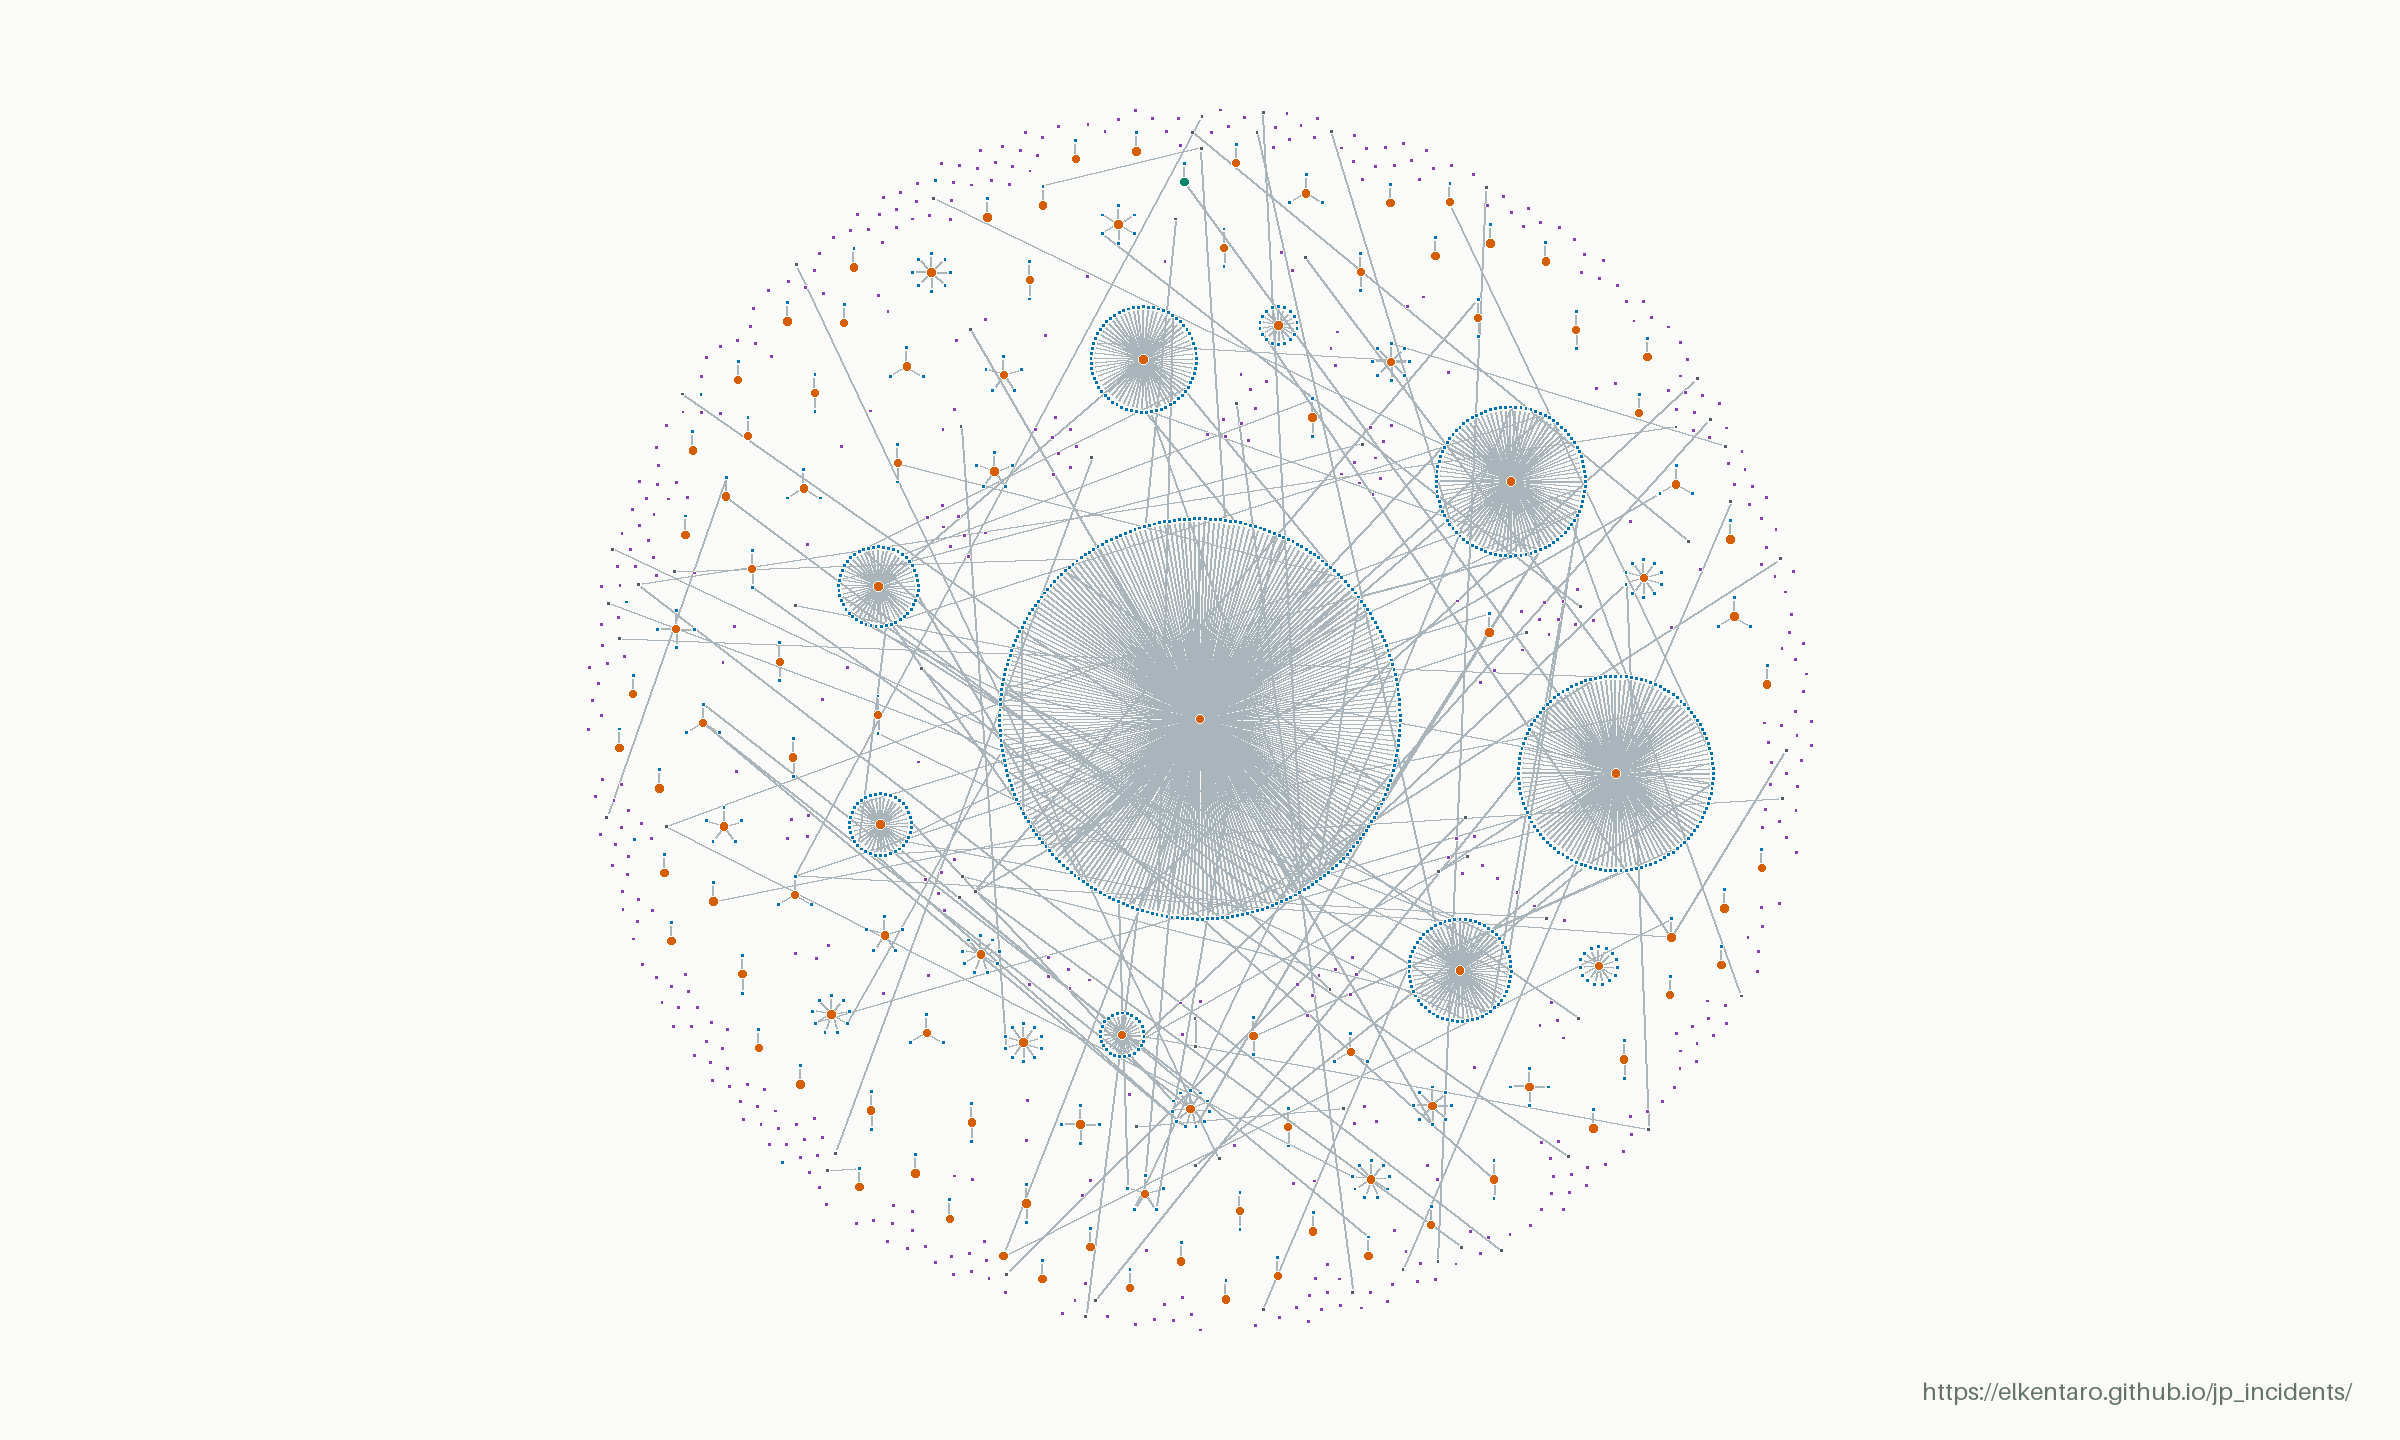
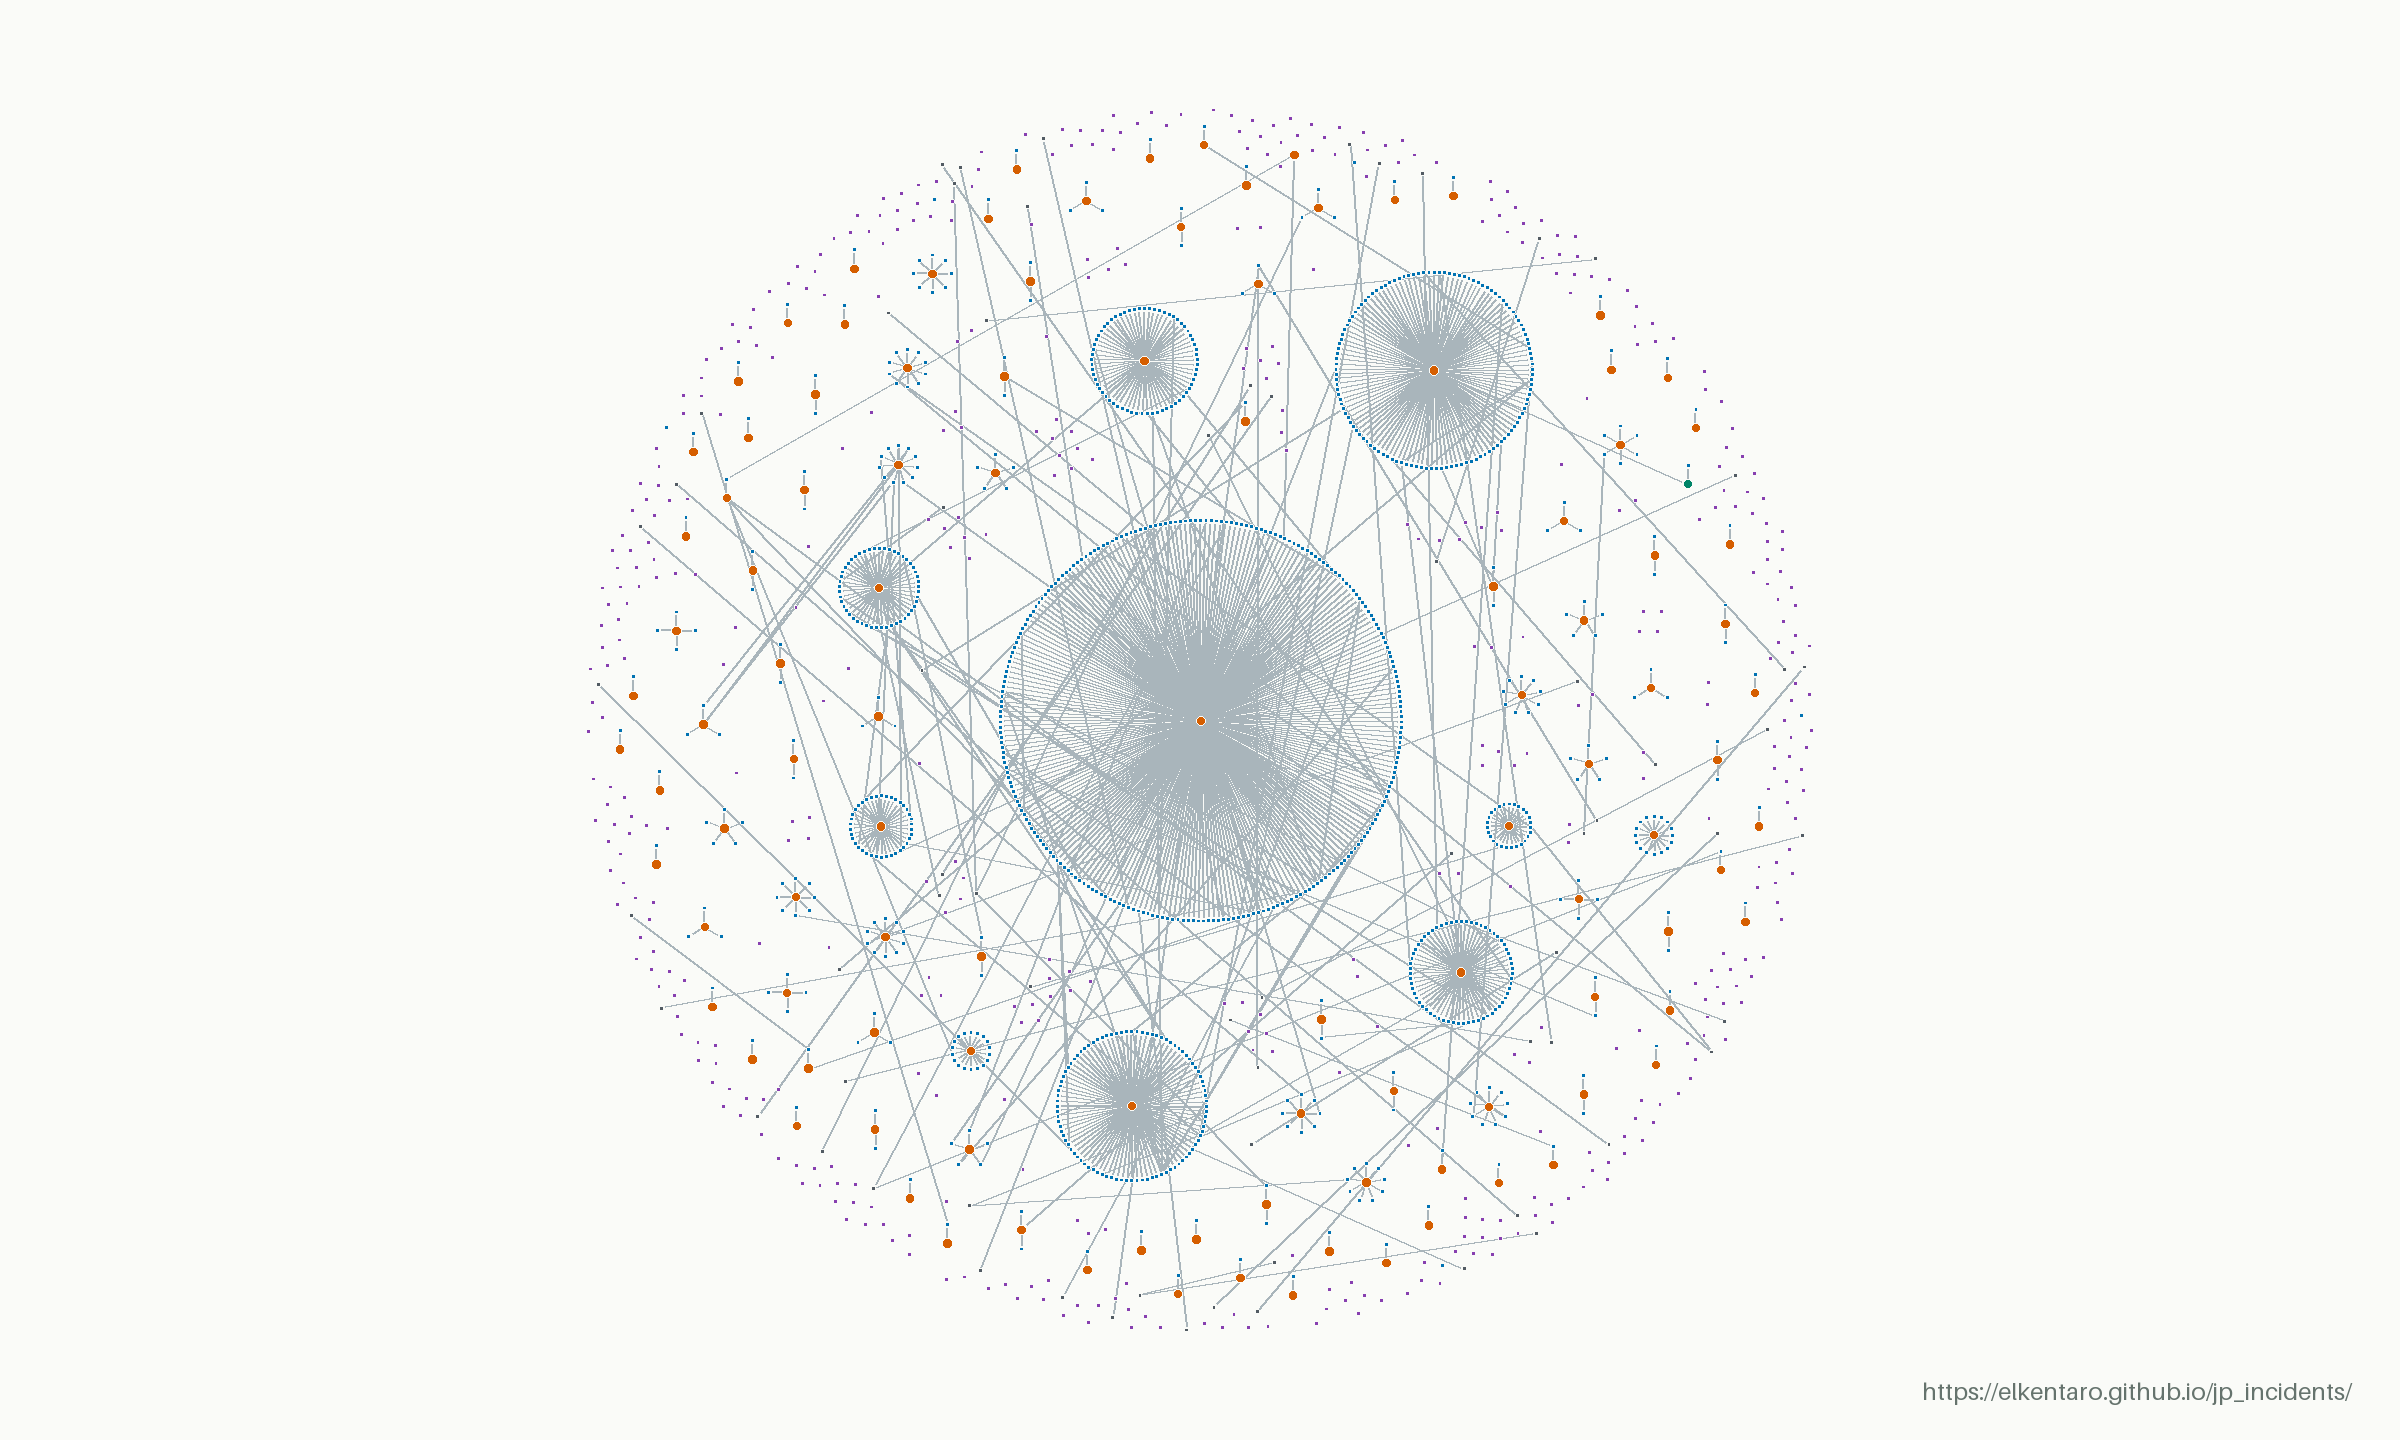
Update incident data (2026-11-26 06:18 UTC)

diff --git a/linkage.html b/linkage.html
@@ -32,17 +32,17 @@
     </section>
     <section class="direct-summary" aria-labelledby="direct-title">
       <dl class="direct-stats">
-        <div class="direct-total"><dt id="direct-title" data-copy="direct">Direct incidents</dt><dd id="direct-count">645</dd></div>
+        <div class="direct-total"><dt id="direct-title" data-copy="direct">Direct incidents</dt><dd id="direct-count">648</dd></div>
         <div><dt data-copy="directUpstream">Upstream incidents</dt><dd id="upstream-count">108</dd></div>
-        <div><dt data-copy="directStandalone">Standalone incidents</dt><dd id="standalone-count">537</dd></div>
+        <div><dt data-copy="directStandalone">Standalone incidents</dt><dd id="standalone-count">540</dd></div>
       </dl>
-      <p class="direct-excluded"><strong id="downstream-count">984</strong> <span data-copy="directExcluded">downstream records excluded, including incidents with both roles.</span></p>
+      <p class="direct-excluded"><strong id="downstream-count">986</strong> <span data-copy="directExcluded">downstream records excluded, including incidents with both roles.</span></p>
       <p class="direct-definition" data-copy="directDefinition">Direct incidents = upstream + standalone, based on recorded causal links. Standalone incidents have no upstream or downstream causal links, but may have other links, such as separate events at the same organization.</p>
     </section>
     <dl class="map-stats">
-      <div><dt data-copy="total">Incidents in snapshot</dt><dd>1629</dd></div>
-      <div><dt data-copy="linked">With recorded connections</dt><dd>1153</dd></div>
-      <div><dt data-copy="links">Recorded connections</dt><dd>1108</dd></div>
+      <div><dt data-copy="total">Incidents in snapshot</dt><dd>1634</dd></div>
+      <div><dt data-copy="linked">With recorded connections</dt><dd>1155</dd></div>
+      <div><dt data-copy="links">Recorded connections</dt><dd>1110</dd></div>
       <div><dt data-copy="networks">Connected networks</dt><dd>92</dd></div>
     </dl>
     <figure class="map-figure">
@@ -50,13 +50,13 @@
         <img src="data/linkage-map.png" width="2400" height="1440" alt="Anonymized incident map. Orange upstream hubs connect to blue downstream incidents; purple unlinked incidents appear throughout the same map without connecting lines." data-copy-alt="alt">
       </div>
       <figcaption>
-        <div class="map-caption-meta"><span><span data-copy="updated">Last updated</span>: <time datetime="2026-11-26T05:16:15.744561+00:00">2026-11-26 05:16 UTC</time></span><a href="data/linkage-map.png" target="_blank" rel="noopener" data-copy="open">Open full-resolution image ↗</a></div>
+        <div class="map-caption-meta"><span><span data-copy="updated">Last updated</span>: <time datetime="2026-11-26T06:16:57.196182+00:00">2026-11-26 06:16 UTC</time></span><a href="data/linkage-map.png" target="_blank" rel="noopener" data-copy="open">Open full-resolution image ↗</a></div>
         <div class="map-key-section">
           <strong id="map-key-title" data-copy="key">Key</strong>
           <ul class="map-key" aria-labelledby="map-key-title">
             <li><span class="key-dot upstream" aria-hidden="true"></span><span data-copy="keyUpstream">Upstream</span></li>
             <li><span class="key-dot downstream" aria-hidden="true"></span><span data-copy="keyDownstream">Downstream</span></li>
-            <li><span class="key-dot standalone" aria-hidden="true"></span><span data-copy="keyStandalone">Unlinked</span><span>(476)</span></li>
+            <li><span class="key-dot standalone" aria-hidden="true"></span><span data-copy="keyStandalone">Unlinked</span><span>(479)</span></li>
             <li><span class="key-dot both" aria-hidden="true"></span><span data-copy="keyBoth">Both roles</span></li>
             <li><span class="key-dot related" aria-hidden="true"></span><span data-copy="keyRelated">Other related</span></li>
             <li><span class="key-line" aria-hidden="true"></span><span data-copy="keyRelationship">Recorded relationship</span></li>
@@ -69,7 +69,7 @@
       <section><h2 data-copy="readingTitle">Reading the map</h2><p data-copy="reading">Orange marks upstream incidents, blue downstream incidents, and purple unlinked incidents with no recorded connection. Teal marks incidents with both upstream and downstream roles; charcoal marks other related incidents. A missing connection does not establish that two incidents are unrelated.</p></section>
       <section><h2 data-copy="snapshotTitle">About this snapshot</h2><p data-copy="snapshot">The static image is refreshed when published incidents or relationships change, and at least every 24 hours during normal publication. Larger upstream clusters have extra spacing to keep their victims apart. Names, incident IDs, source links and incident dates are omitted; the connection pattern is retained. It is an overview of recorded relationships, not a complete map of cyber incidents in Japan.</p></section>
     </div>
-    <p class="map-source"><span data-copy="sourceUpdated">Source data updated</span>: <time datetime="2026-11-26T05:16:15+00:00">2026-11-26T05:16:15+00:00</time> · <a href="./" data-copy="browse">Browse the incident index</a></p>
+    <p class="map-source"><span data-copy="sourceUpdated">Source data updated</span>: <time datetime="2026-11-26T06:16:57+00:00">2026-11-26T06:16:57+00:00</time> · <a href="./" data-copy="browse">Browse the incident index</a></p>
   </main>
   <footer><div class="shell footer-inner"><p data-copy="footer">Public reports. Recorded relationships. An anonymized overview.</p><a href="./" data-copy="back">Back to incidents</a></div></footer>
   <script src="linkage.js?v=20261107-spacing" defer></script>
